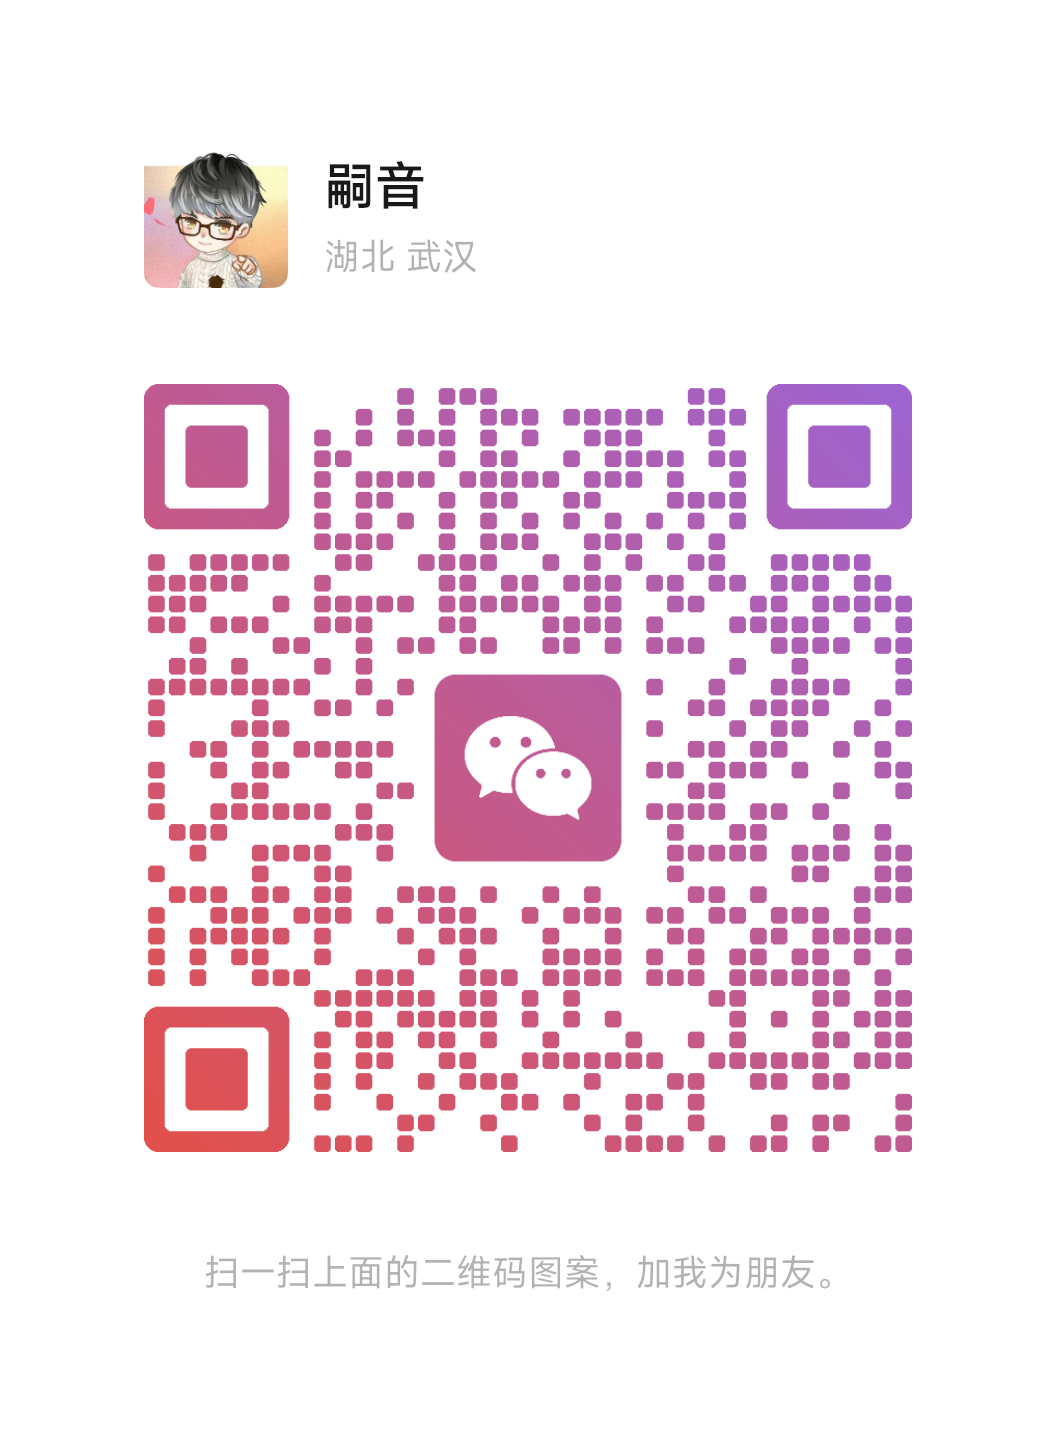
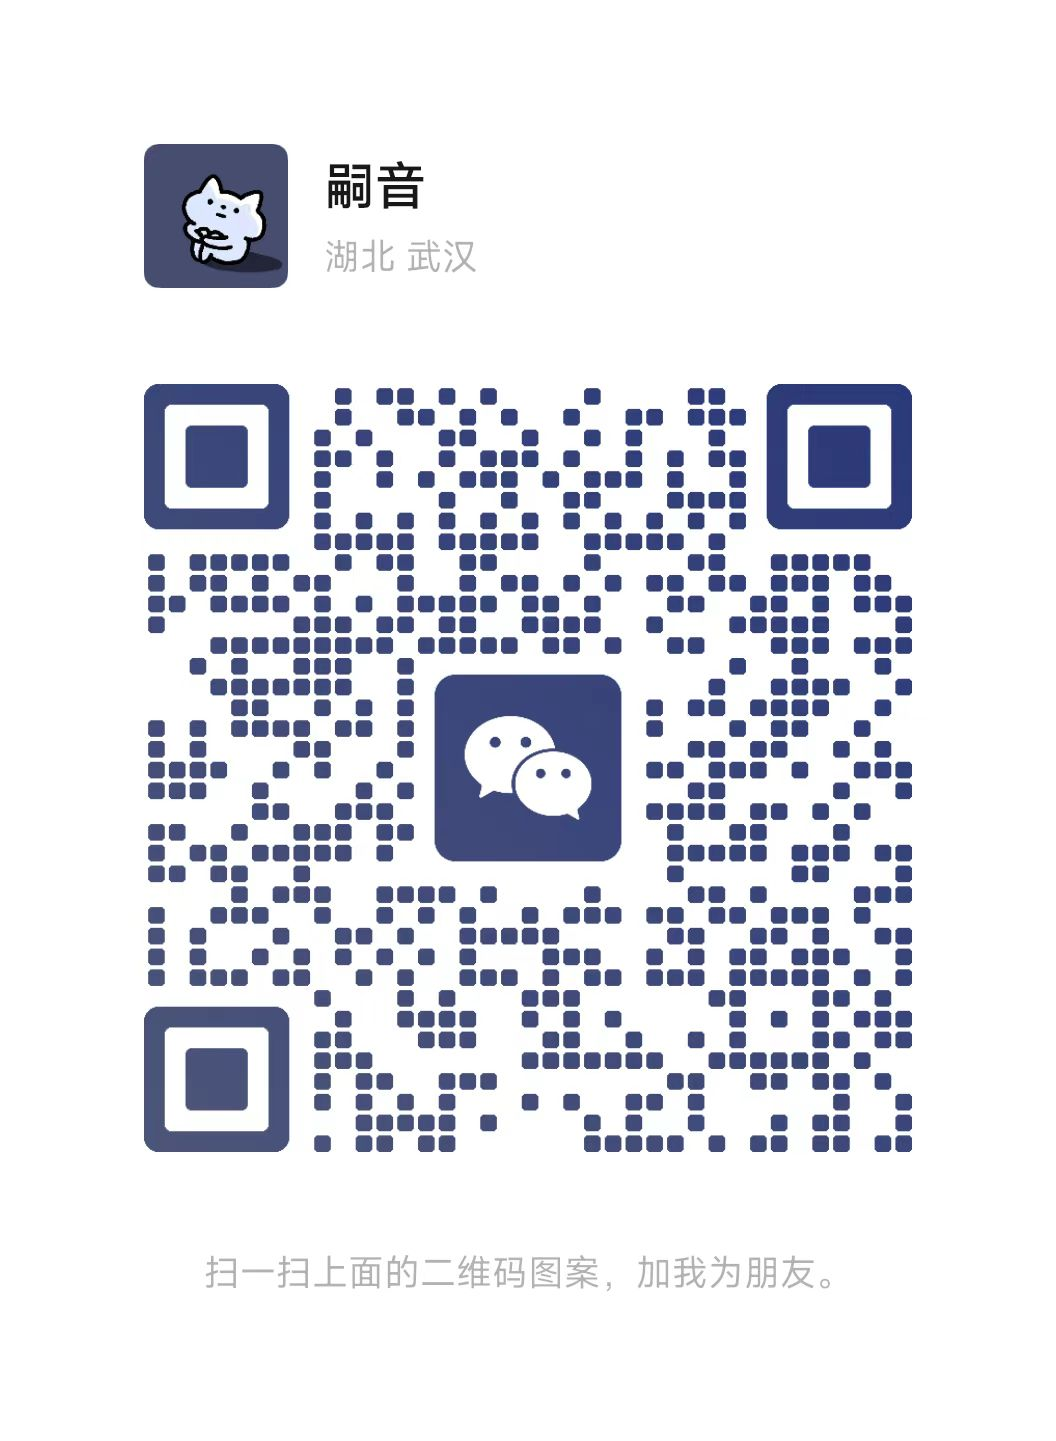
修改图标

Changed region(s): [[0.125, 0.2498, 0.875, 0.8119], [0.125, 0.0937, 0.2812, 0.2186]]

diff --git a/vite.config.js b/vite.config.js
@@ -1,53 +1,53 @@
-import { fileURLToPath, URL } from 'node:url'
+import { fileURLToPath, URL } from "node:url";
 
-import { defineConfig } from 'vite'
-import vue from '@vitejs/plugin-vue'
-import vueJsx from '@vitejs/plugin-vue-jsx'
-import vueDevTools from 'vite-plugin-vue-devtools'
-import AutoImport  from 'unplugin-auto-import/vite'
-import Components from 'unplugin-vue-components/vite'
-import { NaiveUiResolver } from 'unplugin-vue-components/resolvers'
+import { defineConfig } from "vite";
+import vue from "@vitejs/plugin-vue";
+import vueJsx from "@vitejs/plugin-vue-jsx";
+import vueDevTools from "vite-plugin-vue-devtools";
+import AutoImport from "unplugin-auto-import/vite";
+import Components from "unplugin-vue-components/vite";
+import { NaiveUiResolver } from "unplugin-vue-components/resolvers";
 
 // https://vite.dev/config/
 export default defineConfig({
-  server:{
-    host:true,
+  server: {
+    host: true,
   },
-  base:'/GisBlog',
+  base: process.env.NODE_ENV === "production" ? "/GisBlog" : "./",
   plugins: [
     vue(),
     vueJsx(),
     vueDevTools(),
     AutoImport({
-      imports:[
-        'vue', 
-        'vue-router', 
-        'pinia',
+      imports: [
+        "vue",
+        "vue-router",
+        "pinia",
         {
-          'naive-ui': [
-            'useDialog',
-            'useMessage',
-            'useNotification',
-            'useLoadingBar'
-          ]
-        }
-      ]
+          "naive-ui": [
+            "useDialog",
+            "useMessage",
+            "useNotification",
+            "useLoadingBar",
+          ],
+        },
+      ],
     }),
     Components({
-      resolvers: [NaiveUiResolver()]
-    })
+      resolvers: [NaiveUiResolver()],
+    }),
   ],
-  css:{
-    preprocessorOptions:{
-      scss:{
-        additionalData:`@use "@/assets/globalStyleVariables.scss" as *;`,
-        javascriptEnabled: true
-      }
-    }
+  css: {
+    preprocessorOptions: {
+      scss: {
+        additionalData: `@use "@/assets/globalStyleVariables.scss" as *;`,
+        javascriptEnabled: true,
+      },
+    },
   },
   resolve: {
     alias: {
-      '@': fileURLToPath(new URL('./src', import.meta.url))
+      "@": fileURLToPath(new URL("./src", import.meta.url)),
     },
   },
-})
+});
